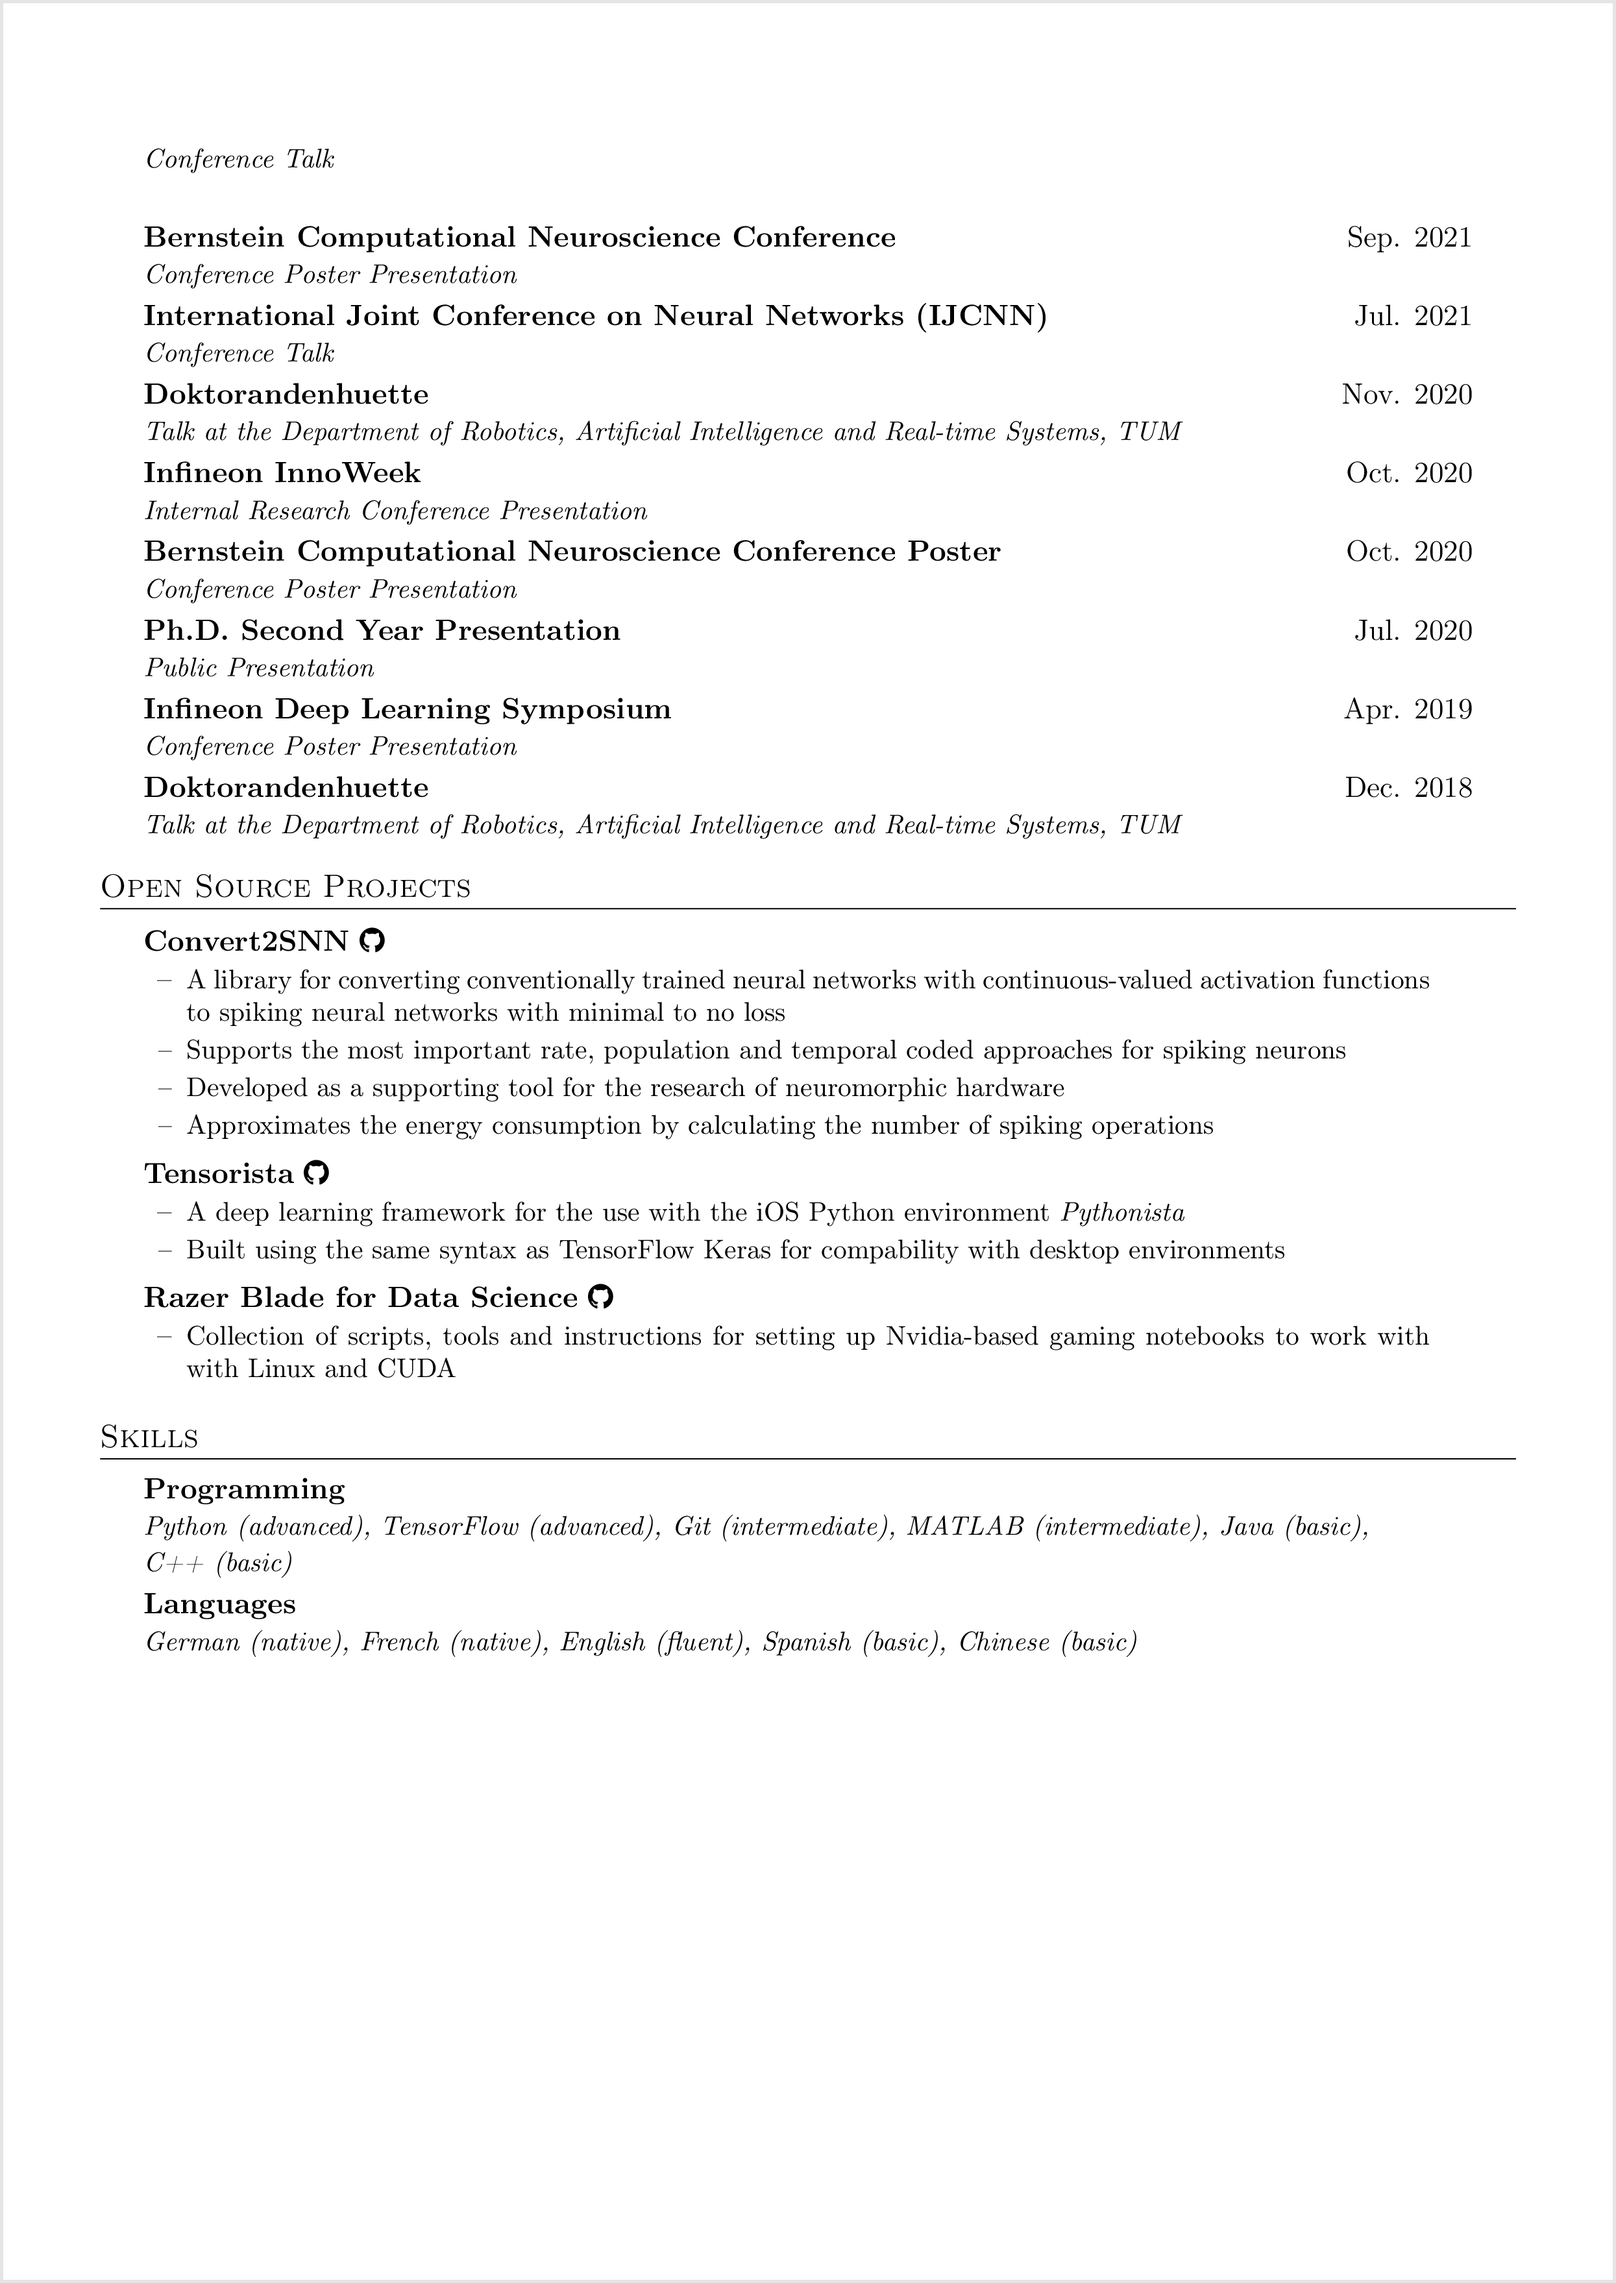
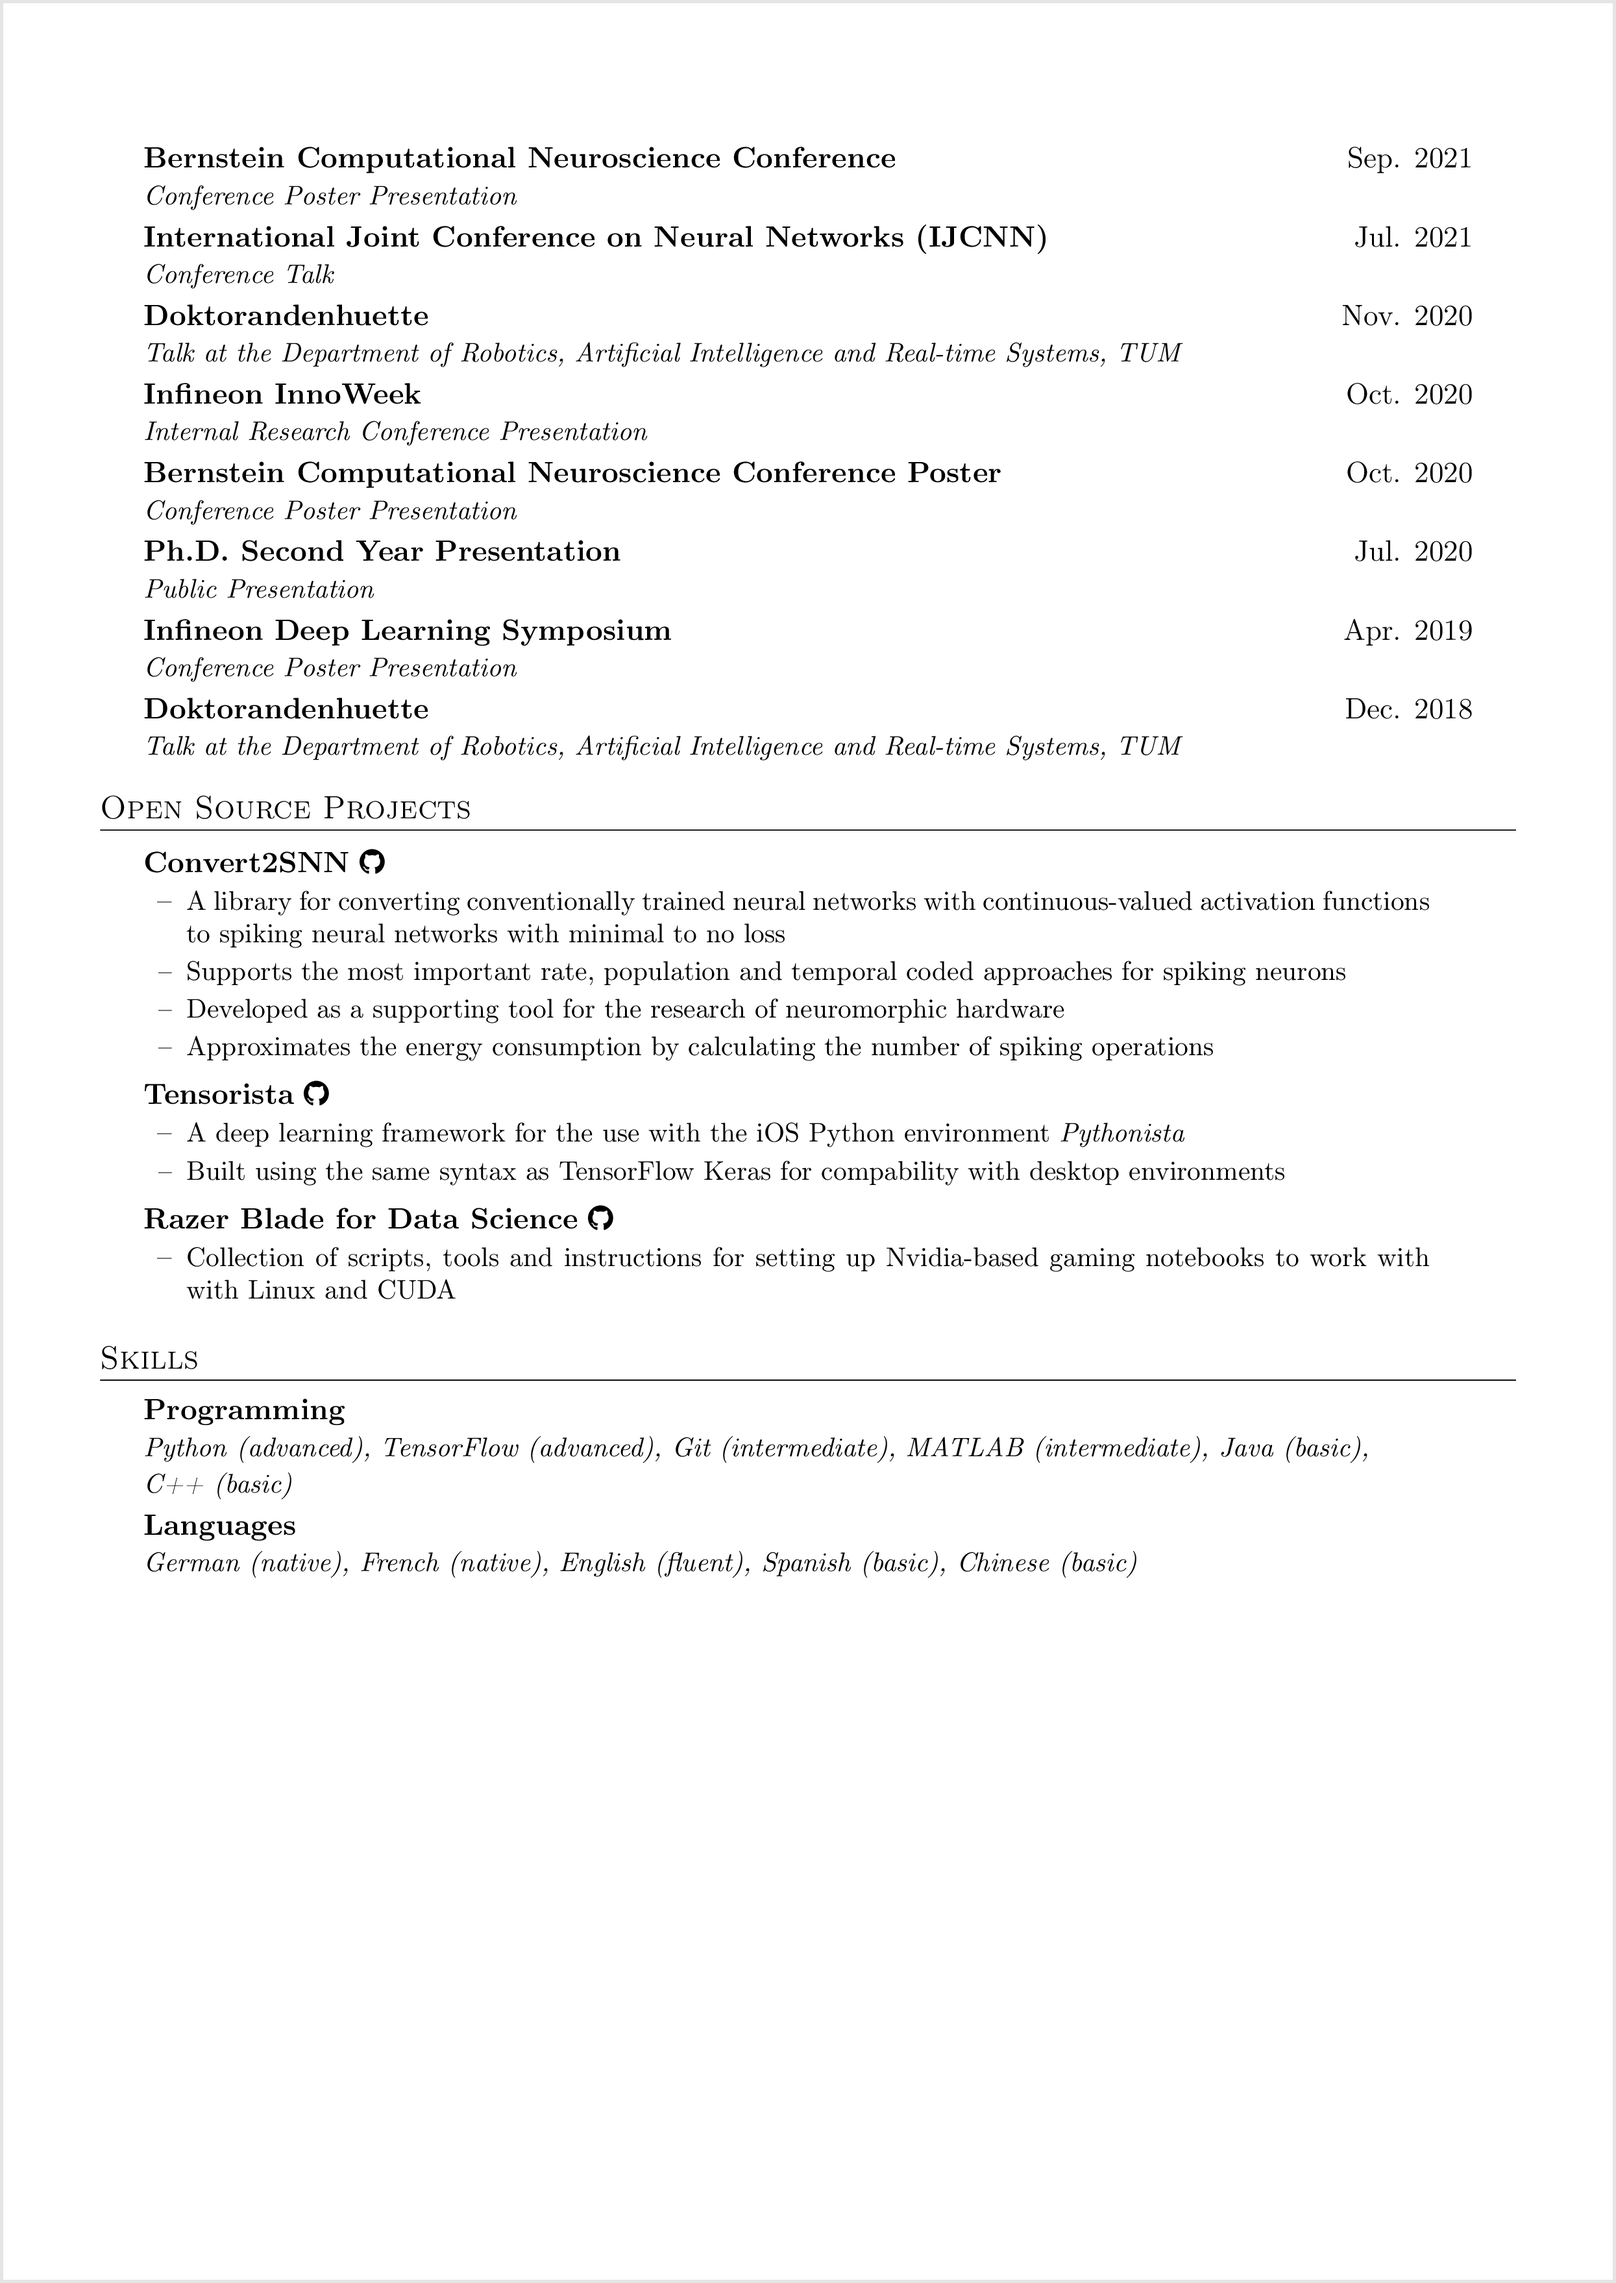
updated content

Changed region(s): [[0.0618, 0.062, 0.8349, 0.7126], [0.8349, 0.093, 0.8659, 0.1859]]

diff --git a/cv.tex b/cv.tex
@@ -1,6 +1,6 @@
 \documentclass[a4paper,11pt]{article}
 
-% ----- Packages and settings --------------------------------------------------
+% ----- Packages and settings -------------------------------------------------
 % Special characters, symbols and icons
 \usepackage[T1]{fontenc}
 \usepackage{eurosym}
@@ -51,7 +51,7 @@
     \item \small #1, "#2," #3, #4, #5, #6. \vspace{-5pt}}
 
 
-% ----- Begin Document ---------------------------------------------------------
+% ----- Begin Document --------------------------------------------------------
 \begin{document}
 
 \begin{center}
@@ -61,14 +61,14 @@
     \faHome \hspace{.5pt} 
     \href{https://www.etiennemueller.com}{etiennemueller.com} |
     \faEnvelope \hspace{.5pt} 
-    \href{mailto:etienne.mueller@proton.me}{etienne.mueller@proton.me} |
+    \href{mailto:cv@etiennemuellercom}{cv@etiennemueller.com} |
     \faGithub \hspace{.5pt} 
     \href{https://github.com/EtienneMueller/}{github.com/EtienneMueller} |
     \faPhone \hspace{.5pt} 
     \href{tel:+4915161280989}{+49 151 61280989}
 \end{center}
 
-% ----- Education --------------------------------------------------------------
+% ----- Education -------------------------------------------------------------
 \section{Education}
 %\cvSectionBegin
 \begin{itemize}
@@ -101,7 +101,7 @@
     \cvItemizeEnd
 \end{itemize}
 
-% ---------- EXPERIENCE --------------------------------------------------------
+% ---------- EXPERIENCE -------------------------------------------------------
 \section{Professional Experience}
 \begin{itemize}
     \entryBf{Technical Advisor}{2021 \textbf{--} Present}
@@ -160,7 +160,7 @@
     \entryIt{Lischke Consulting}
 \end{itemize}
 
-% ---------- TEACHING EXPERIENCE -----------------------------------------------
+% ---------- TEACHING EXPERIENCE ----------------------------------------------
 \section{Teaching Experience}
 \begin{itemize}
     \entryBf{Lecturer in Cognitive Systems}{2019 \textbf{--} 2021}
@@ -185,7 +185,7 @@
     \vspace{2pt}
 \end{itemize}
  
-% ---------- PUBLICATIONS ------------------------------------------------------
+% ---------- PUBLICATIONS -----------------------------------------------------
 \section{Publications}
 \publicationItemizeBegin
     \ieeeConference
@@ -234,7 +234,7 @@
         {Chair of Informatics}{TUM}{Munich}{Technical Report TUM-I2083}{2020}
 \publicationItemizeEnd
 
-% ---------- PRESENTATIONS -----------------------------------------------------
+% ---------- PRESENTATIONS ----------------------------------------------------
 \section{Presentations}
 \begin{itemize}
     \entryBf{Doktorandenhuette}{Mar. 2022}
@@ -243,7 +243,6 @@
     \entryIt{Conference Talk}
     \entryBf{International Conference on Systems and Informatics (ICSAI)}{Nov. 2021}
     \entryIt{Conference Talk}
-    \\
     \entryBf{Bernstein Computational Neuroscience Conference}{Sep. 2021}
     \entryIt{Conference Poster Presentation}
     \entryBf{International Joint Conference on Neural Networks (IJCNN)}{Jul. 2021}
@@ -262,7 +261,7 @@
     \entryIt{Talk at the Department of Robotics, Artificial Intelligence and Real-time Systems, TUM}
 \end{itemize}
 
-% ---------- OPEN SOURCE PROJECTS ----------------------------------------------
+% ---------- OPEN SOURCE PROJECTS ---------------------------------------------
 \section{Open Source Projects}
 \begin{itemize}
     \cvOS
@@ -286,7 +285,7 @@
     \cvItemizeEnd
 \end{itemize}
 
-% ---------- SKILLS ------------------------------------------------------------
+% ---------- SKILLS -----------------------------------------------------------
 \section{Skills}
 \begin{itemize}
     \entryBf{Programming}{}
